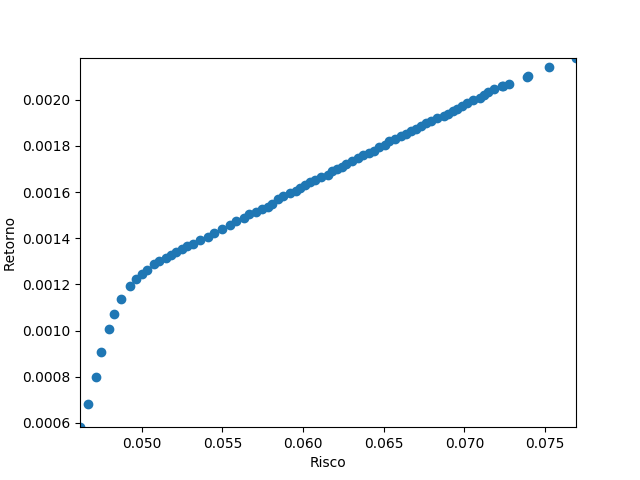
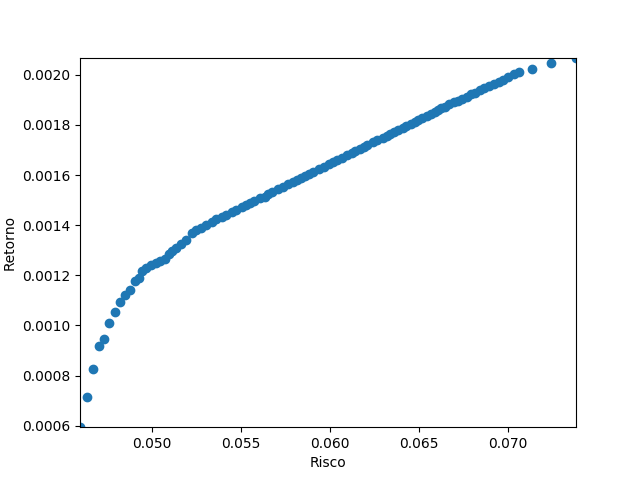
update

diff --git a/nsga2.py b/nsga2.py
@@ -241,6 +241,7 @@ def main():
             pop = otimiza(pop_filtrada)
             pop_filtrada = pop.copy()
 
+        #GRAFICO FINAL DA ITERAÇÃO
         x2 = []
         y2 = []
         for carteira in pop_filtrada:
@@ -253,24 +254,14 @@ def main():
             primeira_execucao = False
 
         else:
-            # print("pop = ", len(pop_filtrada))
-            # print("pts x = ", len(pontos_x))
-            # print("x2 = ", len(x2))
             for i in range(len(pop_filtrada)):
                 pontos_x[i] += x2[i]
                 pontos_y[i] += y2[i]
-        # print("Passou :D")
-        # for i in range(len(pop_filtrada)):
-        #     print("x = ", pontos_x[i])
-        #     print()
-        #     print("y = ", pontos_y[i])
 
+    #GRAFICO FINAL DA EXECUÇÃO
     for i in range(len(pop_filtrada)):
         pontos_x[i]/=EXECUCOES
         pontos_y[i]/=EXECUCOES
-
-
-
 
 
     stop = timeit.default_timer()

diff --git a/globais.py b/globais.py
@@ -1,7 +1,8 @@
-TAM_POP = 80
+TAM_POP = 100
 CARDINALIDADE = 9
-ITERACOES = 100
+ITERACOES = 150
 PROBABILIDADE_MUTACAO = 0.1
 EXECUCOES = 30
+QUANTIDADE_ATIVOS = 57
 listaAtivos = []
 populacao = []
